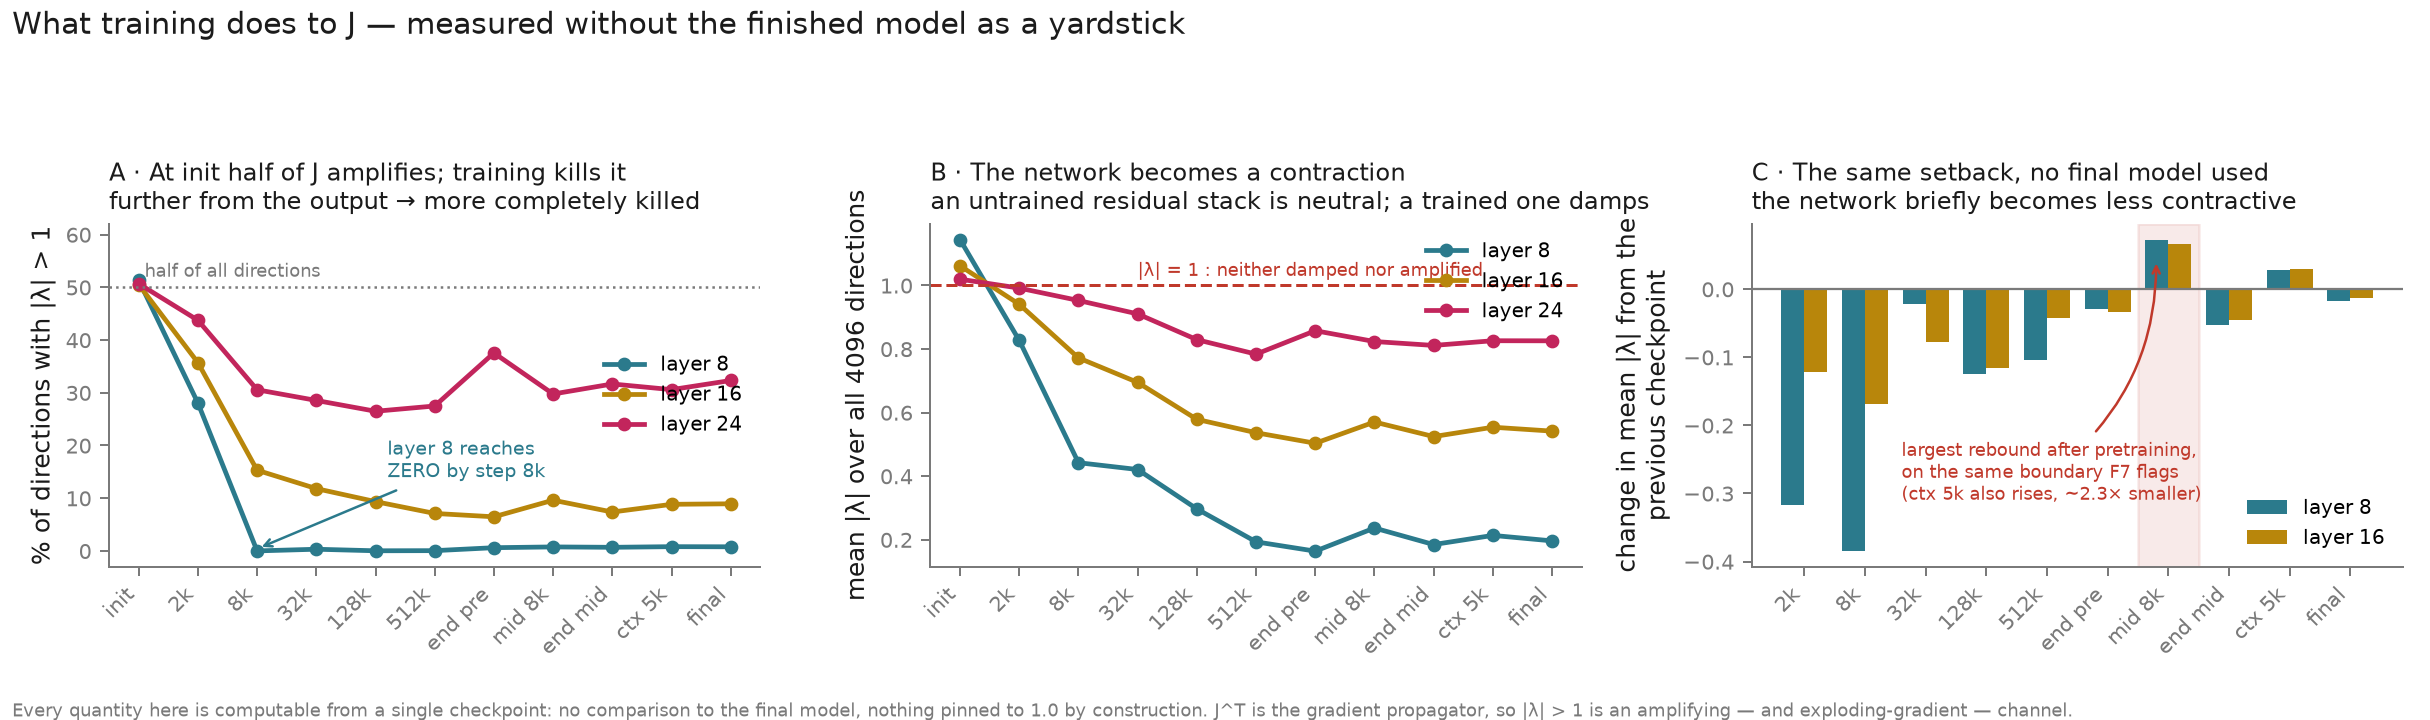
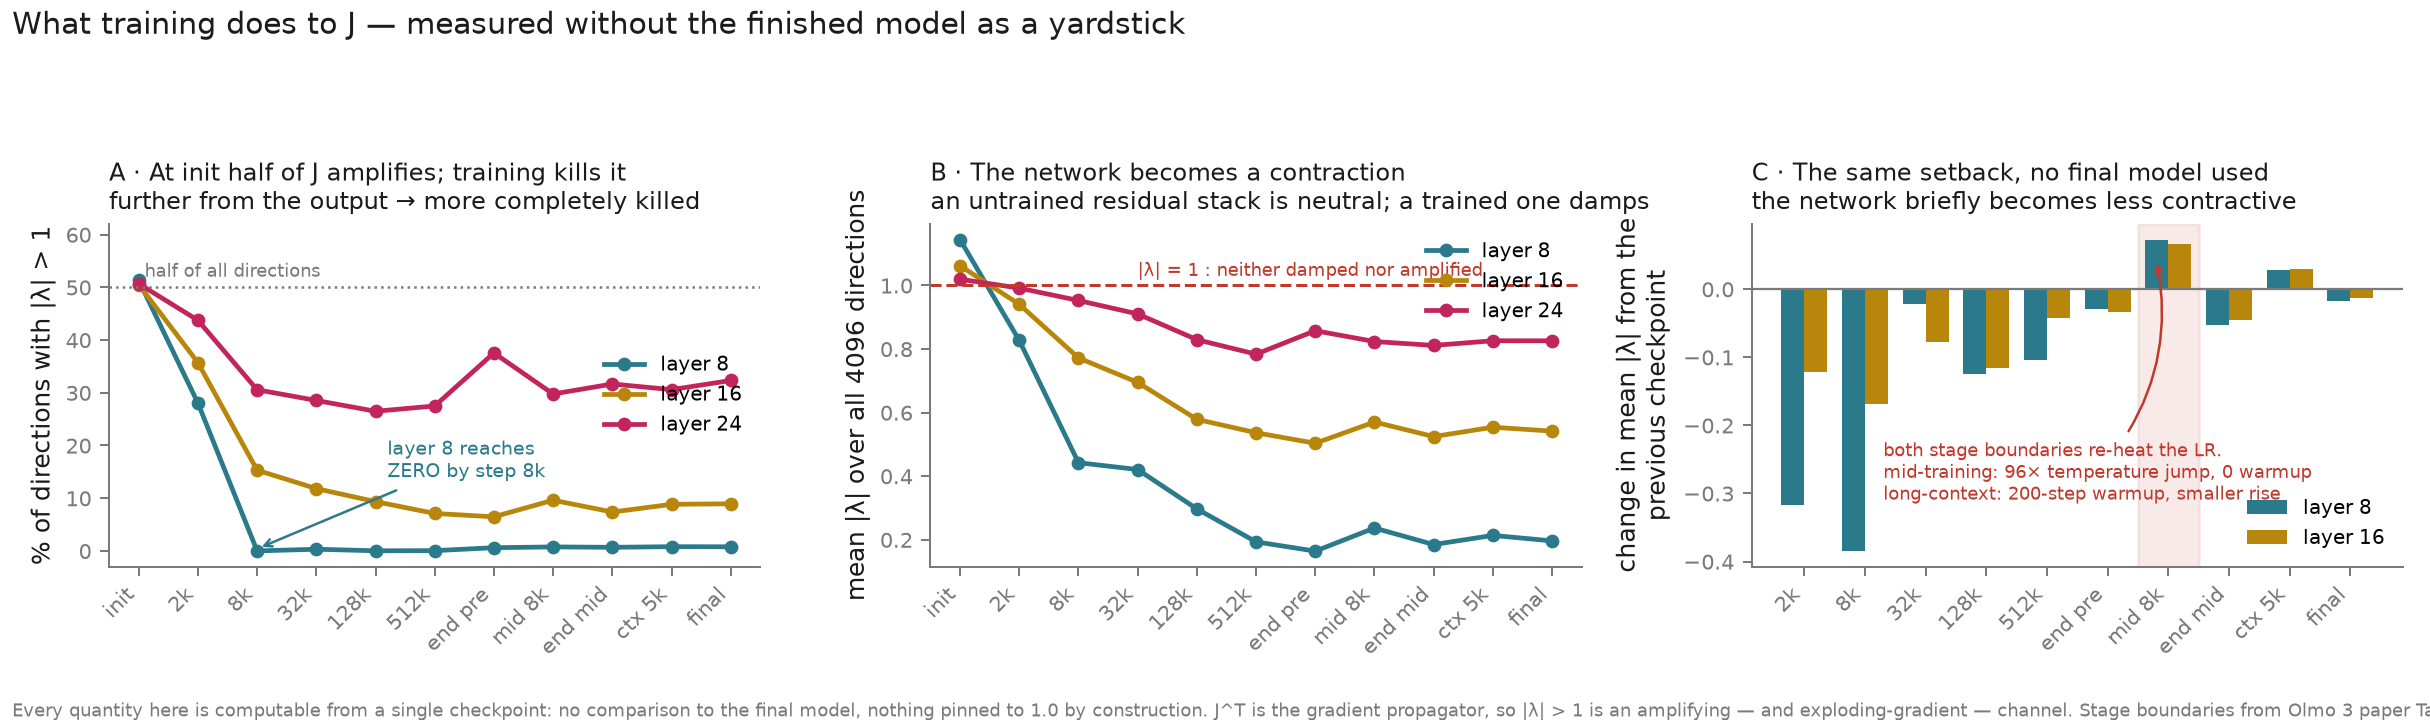
Name the cause of the mid-training dip: Olmo 3 Table 35
The one non-monotone point in the checkpoint trajectory is not mysterious. Olmo 3
technical report Table 35 (arXiv:2512.13961), Olmo 3 Base 7B:

                        Pretraining   Midtraining   Long-context
  LR schedule           mod. cosine   linear decay  linear decay
  LR warmup from 0      2000 steps    0 STEPS       200 steps
  Peak LR               3.0e-4        2.074e-4      2.074e-4
  Final LR              3.0e-5        0             0
  Batch size (tokens)   4,194,304     2,097,152     4,194,304
  Total tokens          5.93T         100B          50B

Three shocks land together at the boundary. The learning rate jumps ~7x, from a
pretraining final of 3.0e-5 to a midtraining peak of 2.074e-4, with ZERO warmup
steps. The batch halves. And the data mix changes regime entirely -- Dolmino is
20% code, 19% math, 14% QA, 8% thinking, 6% instruction, so roughly two thirds
code/math/reasoning against web-heavy pretraining.

On Ai2's own training-temperature metric LR^2/batch, that is a 96x jump in one
step with no ramp: 2.15e-16 -> 2.05e-14. Our checkpoint sits in the hot zone --
midtraining decays linearly to zero over 47,684 steps, so at step 8,000 the LR is
still 1.73e-4, 5.8x the pretraining final, and the model is 16.8% of the way
through (16.8B of 100B tokens).

The hyperparameters reproduce the checkpoint branch names, which is how we know
it is the right table: 5.93T / 4,194,304 = 1,413,822 (branch stage1-step1413814)
[…]

Changed region(s): [[0.7716, 0.6111, 0.9568, 0.7028], [0.8333, 0.9778, 1.0, 1.0]]

diff --git a/jlens/training_spectrum_fig.py b/jlens/training_spectrum_fig.py
@@ -94,9 +94,10 @@ def main():
                color=colour, label=f"layer {L}")
     ax.axhline(0, color=MUTED, lw=.9)
     ax.axvspan(dip - .5, dip + .5, color=RED, alpha=.10, zorder=0)
-    ax.annotate("largest rebound after pretraining,\non the same boundary F7 flags\n"
-                "(ctx 5k also rises, ~2.3× smaller)",
-                xy=(dip - .2, .045), xytext=(2.6, -.27), fontsize=7.2, color=RED,
+    ax.annotate("both stage boundaries re-heat the LR.\n"
+                "mid-training: 96\u00d7 temperature jump, 0 warmup\n"
+                "long-context: 200-step warmup, smaller rise",
+                xy=(dip - .2, .045), xytext=(2.3, -.27), fontsize=7.0, color=RED,
                 ha="left", va="center",
                 arrowprops=dict(arrowstyle="->", color=RED, lw=1,
                                 connectionstyle="arc3,rad=0.25"))
@@ -113,8 +114,10 @@ def main():
                  fontsize=12, color=INK, x=.005, y=.985, ha="left")
     fig.text(.005, .005,
              "Every quantity here is computable from a single checkpoint: no comparison to the "
-             "final model, nothing pinned to 1.0 by construction. J^T is the gradient propagator, "
-             "so |λ| > 1 is an amplifying — and exploding-gradient — channel.",
+             "final model, nothing pinned to 1.0 by construction. J^T is the gradient propagator, so |λ| > 1 is an "
+             "amplifying — and exploding-gradient — channel. Stage boundaries from Olmo 3 paper Table 35 "
+             "(arXiv:2512.13961): midtraining restarts the LR at 2.074e-4 from a pretraining final LR of 3.0e-5, "
+             "with 0 warmup steps and half the batch.",
              fontsize=7, color=MUTED)
     fig.tight_layout(rect=[0, .04, 1, .90])
     OUT.mkdir(parents=True, exist_ok=True)

diff --git a/jlens/training_fig.py b/jlens/training_fig.py
@@ -70,8 +70,9 @@ def main():
     ax.axhline(chance, color=RED, ls=":", lw=1)
     ax.text(0.1, chance + .028, f"chance {chance:.3f}", color=RED, fontsize=7.5)
     ax.axvspan(dip - .35, dip + .35, color=RED, alpha=.10, zorder=0)
-    ax.annotate("all three bands\nfall back here",
-                xy=(dip, .53), xytext=(dip - 3.4, .80), fontsize=7.5, color=RED,
+    ax.annotate("all three bands fall back here\nLR jumps 3e-5 \u2192 2.07e-4 with\n"
+                "ZERO warmup, batch halves\n(Olmo 3 paper, Table 35)",
+                xy=(dip, .55), xytext=(dip - 5.2, .84), fontsize=6.8, color=RED,
                 arrowprops=dict(arrowstyle="->", color=RED, lw=1))
     ax.text(len(order) - 1.05, .32, "final point is\n1.0 by construction",
             fontsize=6.8, color=MUTED, ha="right")
